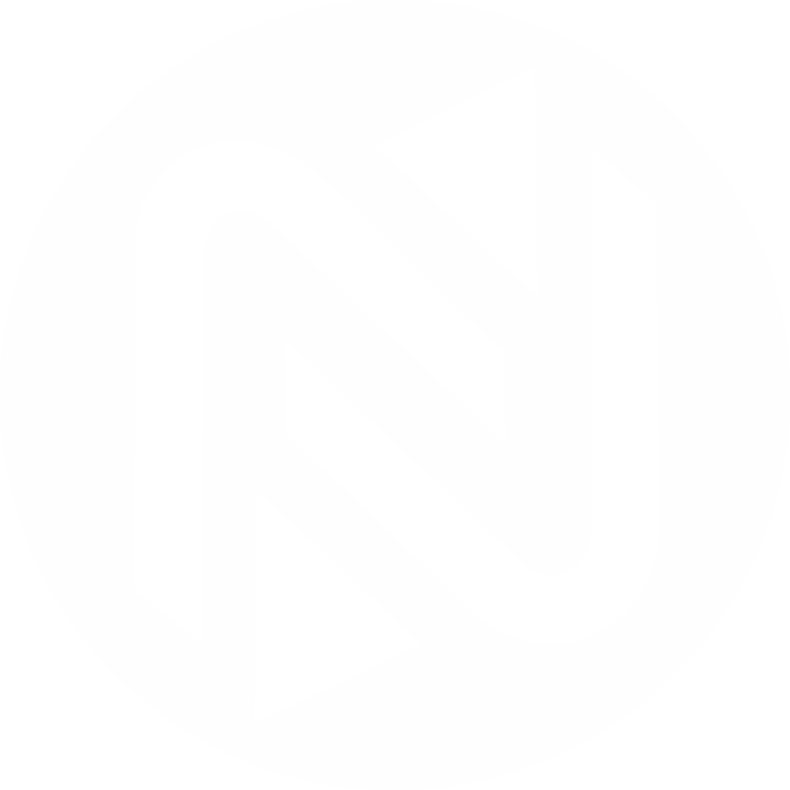
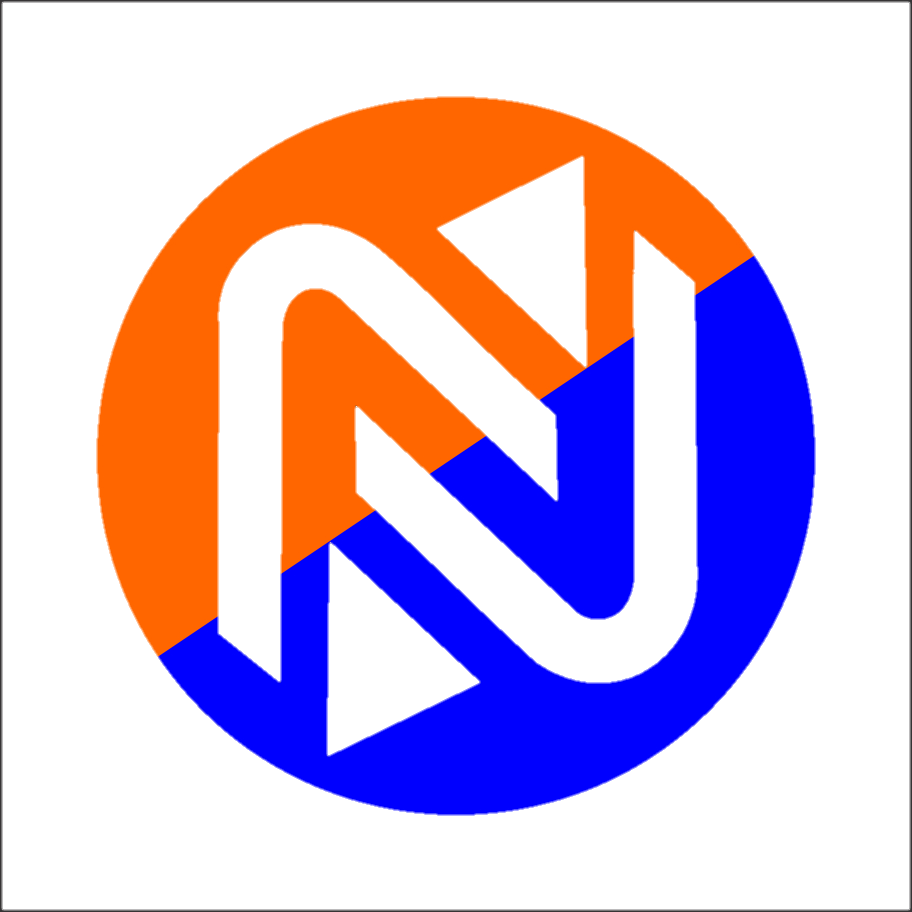
atulização

diff --git a/nipponsite/Home.html b/nipponsite/Home.html
@@ -16,16 +16,16 @@
     <meta name="viewport" content="width=device-width, initial-scale=1.0">
     <title>Nippon</title>
     <link href="estilo.css" rel="stylesheet"> 
-    <link rel="shortcut icon" href="../images/icon_nippon.png">
+    <link rel="shortcut icon" href="../images/icon_nippon1.png">
 </head>
            
-<body data-bs-spy="scroll" data-bs-target=".navbar" data-bs-offset="50">
+<body class=" container-fluid" data-bs-spy="scroll" data-bs-target=".navbar" data-bs-offset="50">
 
-  <div class="fixed-top container-fluid">
+  <div class="fixed-top ">
 
     <!-- Top Navigation Menu -->
     <div class="topnav   ">
-      <a href="#home" class=""><img src="../images/icon_nippon.png" alt="" height="25px"></a>
+      <a href="#home" class=""><img src="../images/icon_nippon.png" alt="" height="30px"></a>
       
       <div >
         <a href="#section1">Serviços</a>
@@ -93,13 +93,13 @@
   <!-- The slideshow/carousel -->
   <div class="carousel-inner">
     <div class="carousel-item active">
-      <img src="../images/Tubos-de-aço-galvanizados-Tubos-Oliveira.jpg" alt="Los Angeles" class="d-block" style="width:100%">
+      <img src="../images/carrossel 1.jpg" alt="Los Angeles" class="d-block" style="width:100%">
     </div> 
     <div class="carousel-item">
-      <img src="../images/288698-descubra-7-ferramentas-para-soldador-que-voce-deve-ter-1280x640-1-1.jpg" alt="Chicago" class="d-block" style="width:100%">
+      <img src="../images/carrossel 2.jpg" alt="Chicago" class="d-block" style="width:100%">
     </div>
     <div class="carousel-item">
-      <img src="../images/Adamczyk-24069553_m-e1588022848578.jpg" alt="New York" class="d-block" style="width:100%">
+      <img src="../images/carrossel 3.jpg" alt="New York" class="d-block" style="width:100%">
     </div>
   </div>
   
@@ -124,11 +124,14 @@
    <div class="row">
      <div class="col-sm  text-black"> 
        <div class="container mt-4">
-           <h2>Manuteção e Montagem Industrial</h2> 
+           <h2>Manuteção e Montagem Industrial
+            <br> 
+            <br>
+           </h2> 
 
-           <p>Image at the top (card-img-top):</p>
+          
            <div class="card container-fluid" >
-             <img class="card-img-top img-fluid" src="../images/slide-de-metal-phx-5cm-para-guitarra_1_.png" alt="Card image" style="width:auto">
+             <img class="card-img-top img-fluid" src="../images/card 1.jpg" alt="Card image" style="width:auto">
              <div class="card-body">
                <h4 class="card-title">John Doe</h4>
                <a href="#" class="btn btn-primary">See Profile</a>
@@ -138,10 +141,13 @@
      </div>
      <div class="col-sm  text-black">
        <div class="container mt-4">
-           <h2>Fabricção e montagem de SPOOC'S </h2>
-           <p>Image at the top (card-img-top):</p>
+           <h2>Fabricção e montagem de SPOOC'S
+            <br> 
+            <br>
+          </h2>
+          
            <div class="card container-fluid" >
-             <img class="card-img-top img-fluid" src="../images/slide-de-metal-phx-5cm-para-guitarra_1_.png" alt="Card image" style="width:auto">
+             <img class="card-img-top img-fluid" src="../images/card 3.jpg" alt="Card image" style="width:auto">
              <div class="card-body">
                <h4 class="card-title">John Doe</h4>
                <a href="#" class="btn btn-primary">See Profile</a>
@@ -151,10 +157,13 @@
      </div>
      <div class="col-sm  text-black">
        <div class="container mt-4">
-           <h2>Montagem de equipamentos </h2>
-           <p>Image at the top (card-img-top):</p>
+           <h2>Montagem de equipamentos 
+            <br> 
+            <br>
+           </h2>
+          
            <div class="card container-fluid" >
-             <img class="card-img-top img-fluid" src="../images/slide-de-metal-phx-5cm-para-guitarra_1_.png" alt="Card image" style="width:auto">
+             <img class="card-img-top img-fluid" src="../images/card 6.jpg" alt="Card image" style="width:auto">
              <div class="card-body">
                <h4 class="card-title">John Doe</h4>
                <a href="#" class="btn btn-primary">See Profile</a>
@@ -167,6 +176,9 @@
  </div>
 
 
+<br>
+<br>
+
 
 
 <div class="container-fluid">
@@ -174,9 +186,9 @@
      <div class="col-sm  text-black">
        <div class="container mt-4">
            <h2>Montagem de Estruturas Metalicas </h2>
-           <p>Image at the top (card-img-top):</p>
+        
            <div class="card container-fluid" >
-             <img class="card-img-top img-fluid" src="../images/slide-de-metal-phx-5cm-para-guitarra_1_.png" alt="Card image" style="width:1auto">
+             <img class="card-img-top img-fluid" src="../images/card 5.jpg" alt="Card image" style="width:1auto">
              <div class="card-body">
                <h4 class="card-title">John Doe</h4>
                <a href="#" class="btn btn-primary">See Profile</a>
@@ -186,10 +198,13 @@
      </div>
      <div class="col-sm  text-black">
        <div class="container mt-4">
-           <h2>Montagem de Tubulações</h2>
-           <p>Image at the top (card-img-top):</p>
+           <h2>Montagem de Tubulações
+            <br> 
+            <br>
+           </h2>
+          
            <div class="card container-fluid" >
-             <img class="card-img-top img-fluid" src="../images/slide-de-metal-phx-5cm-para-guitarra_1_.png" alt="Card image" style="width:auto">
+             <img class="card-img-top img-fluid" src="../images/card 4.jpg" alt="Card image" style="width:auto">
              <div class="card-body">
                <h4 class="card-title">John Doe</h4>
                <a href="#" class="btn btn-primary">See Profile</a>
@@ -199,10 +214,13 @@
      </div>
      <div class="col-sm  text-black">
        <div class="container mt-4">
-           <h2>Caldeiraria, Fornos e Outros </h2>
-           <p>Image at the top (card-img-top):</p>
+           <h2>Caldeiraria, Fornos e Outros 
+             <br>
+             <br>
+           </h2>
+           
            <div class="card container-fluid" >
-             <img class="card-img-top img-fluid" src="../images/slide-de-metal-phx-5cm-para-guitarra_1_.png" alt="Card image" style="width:auto">
+             <img class="card-img-top img-fluid" src="../images/card 2.jpg" alt="Card image" style="width:auto">
              <div class="card-body">
                <h4 class="card-title">John Doe</h4>
                <a href="#" class="btn btn-primary">See Profile</a>
@@ -221,16 +239,54 @@
     
     <div id="section2" class="container-fluid bg-light text-black" style="padding:100px 20px;">
       <h1>local <i class="bi bi-geo-alt"></i></h1>
-     <iframe src="https://www.google.com/maps/embed?pb=!1m18!1m12!1m3!1d973.1647953624324!2d-38.54870387079293!3d-12.670337399440886!2m3!1f0!2f0!3f0!3m2!1i1024!2i768!4f13.1!3m3!1m2!1s0x716713fd53d6f71%3A0x487bd5f595cc009b!2sPra%C3%A7a%20Pio%20Onze%2C%20105-1%20-%20Centro%2C%20Candeias%20-%20BA!5e0!3m2!1spt-BR!2sbr!4v1652106537539!5m2!1spt-BR!2sbr" width="100%" height="500" style="border:0;" allowfullscreen="" loading="lazy" referrerpolicy="no-referrer-when-downgrade"></iframe>
-   
-     <p>Lorem ipsum dolor sit amet. Et atque veritatis non beatae nihil eos perferendis nihil. Et laborum deserunt sed doloribus dolores et temporibus beatae eum laudantium omnis ab quia repudiandae et nisi delectus sed ratione porro. </p><p>Ut repellendus consequatur id sapiente fuga et animi vitae. Eum veniam laboriosam hic debitis inventore non ratione deserunt. </p>
-
+      <iframe src="https://www.google.com/maps/embed?pb=!1m18!1m12!1m3!1d3890.5906491565397!2d-38.38075938524632!3d-12.805061990965312!2m3!1f0!2f0!3f0!3m2!1i1024!2i768!4f13.1!3m3!1m2!1s0x71614c840860da7%3A0x2d6a478d2618fe9d!2sEstr.%20Cova%20da%20Gia%2C%201916%20-%20Pitanguinha%2C%20Sim%C3%B5es%20Filho%20-%20BA%2C%2043700-000!5e0!3m2!1spt-BR!2sbr!4v1652813862035!5m2!1spt-BR!2sbr" width="100%" height="500" style="border:0;" allowfullscreen="" loading="lazy" referrerpolicy="no-referrer-when-downgrade"></iframe>   
+      <h2>ESTRADA COVA DA GIA, N° 1916, GALPÃO-01,
+        <br>
+        BAIRRO PINTANGUINHA-SIMÕES FILHO /BA 
+        <br>
+        CEP: 43700-000</h2>
    
     </div>
     
-    <div id="section3" class="container-fluid bg-light text-black" style="padding:100px 20px;">
+    <div id="section3" class="container-fluid bg-white text-black" style="padding:100px 20px; border: 1px solid">
       <h1>SOBRE</h1>
-      <p>Lorem ipsum dolor sit amet. 33 itaque ipsa non debitis dolor qui fugit omnis et iste quisquam aut obcaecati perspiciatis eum atque ipsum. Et nobis molestiae aut natus quasi a  quae sit quae libero et corporis officiis. Eum tenetur quia ut quas dolorum sed corrupti atque a consequatur nostrum qui sunt facere qui quidem illo? </p><p>Est voluptate tenetur nam architecto suscipit in incidunt commodi. Est consectetur inventore sit debitis nemo et fugit nisi ex velit dolorem. Id modi porro qui obcaecati exercitationem qui odit quia ut quia eius. </p><p>Eos rerum quisquam cum voluptatem accusantium aut unde internos est consectetur explicabo. Ut repellat delectus sit autem quidem sed officia rerum et voluptatem dolorem. Eos maiores delectus non pariatur ducimus id natus dolorum sit molestias voluptatem aut alias doloribus. </p>
+      <br>
+        <br>
+      <h3> QUALIDADE, SEGURANÇA, MEIO AMBIENTE E SAÚDE.</h3>
+      <br>
+      <br>
+      <h5>
+        
+       
+        
+        A NIPPON ENTENDE A GESTÃO DA QUALIDADE COMO UMA DAS FUNÇÕES ESTRATÉGICAS PARA UMA MELHORIA CONTÍNUA DOS SEUS PROCESSOS E SERVIÇOS, SENDO GERADOR DE VALORES PARA EMPRESA.
+        <br>
+        <br>
+        A GESTÃO DA QUALIDADE DA NIPPON ATUA SOB A ESSÊNCIA DA INTEGRAÇÃO, PADRONIZAÇÃO, COMUNICAÇÃO E INOVAÇÃO. 
+        <br>
+        TENDO COMO BASE OS PILARES: PESSOAS, PROCESSOS E TECNOLOGIA. VALORIZANDO A AÇÃO DE FORMA PREVENTIVA, COMO BUSCA PELA EXCELÊNCIA.
+        <br>
+        <br>
+        SEGURANÇA, MEIO AMBIENTE, SAÚDE OCUPACIONAL E A SEGURANÇA DO TRABALHO SÃO PRIORIDADES DA NIPPON.
+        <br>
+        <br>
+
+
+        A EMPRESA ASSUMIU O COMPROMISSO COM ESSA ÁREA; COM APROVAÇÃO DA POLÍTICA DE OSMS, 
+        RECONHECENDO A IMPORTÂNCIA DA MINIMIZAÇÃO DOS IMPACTOS AMBIENTAIS E DA PREVENÇÃO DOS RISCOS QUE AS ATIVIDADES DESEMPENHADAS VENHAM OCASIONAR.
+         NA NIPPON A PREVENÇÃO DE ACIDENTE ESTÁ NO MESMO NÍVEL DA PRIORIDADE DA PRODUÇÃO, DO PRAZO E DO CUSTO, 
+         EM CONJUNTO COM A RESPONSABILIDADE AMBIENTAL VISA PROMOVER UM DESENVOLVIMENTO DE SUAS ATIVIDADES DE FORMA SUSTENTÁVEL.
+        <br>
+        <br>
+
+      A NIPPON BUSCA UMA GESTÃO DE SMS COERENTE E ATUALIZADA, EM CONCORDÂNCIAS COM AS NECESSIDADES DAS PARTES INTERESSADAS E 
+      ENVOLVIDAS EM NOSSAS ATIVIDADES. PROPORCIONANDO UM AMADURECIMENTO CORPORATIVO COMO BASE CADA VEZ MAIS SÓLIDA,
+       POSSIBILITANDO RESULTADOS CADA VEZ MAIS SIGNIFICATIVOS.
+
+
+      
+        
+      </h5>
         </div>
     
 
